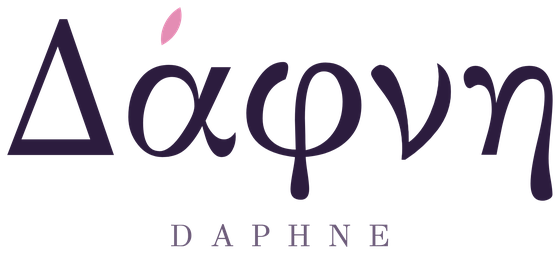
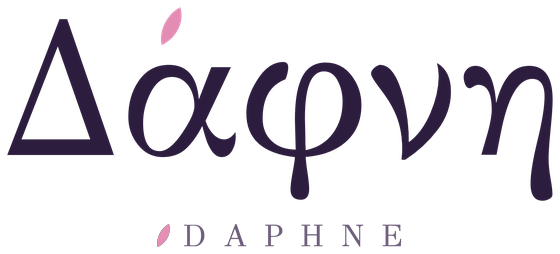
[DOC] README wordmark: the petal before DAPHNE, as in MIKU
Description:
The README's wordmark images had DAPHNE without the petal that MIKU shows
in front of it (settings title, about row, signal path card).

Solution:
- doc/assets/wordmark-dark.png, wordmark-light.png: the icon's petal
  (TONOS_D, #E58FB7) before DAPHNE, as specified for MIKU: as tall as the
  capitals (0.692 em = 23 px), 0.374 em wide, 0.43 em before DAPHNE.
  DAPHNE keeps the artwork's letters, moved 13 px right so petal + DAPHNE
  stay centred under Δάφνη.
- doc/字標與icon規格.md §5: the README images listed with the other places.

Note:
README.md itself is unchanged (same image paths).

Claude-Session: https://claude.ai/code/session_01RaSJHLGsG56MgkYENuf3Kn

Changed region(s): [[0.2732, 0.8819, 0.7286, 0.9921]]

diff --git a/doc/字標與icon規格.md b/doc/字標與icon規格.md
@@ -127,8 +127,10 @@ L351.9 -760.2Z
 | 訊號路徑卡片：DSP 標題後 | 14px | 4.48px | 5.2 × 9.7px | 卡片列文字色 85%（卡片顯示後讀取列文字的實際顏色） |
 | 濾波器設計彈窗：標題開頭 | 14px | 4.48px | 5.2 × 9.7px | 彈窗文字色 85% |
 | MIKU「播放方案」選單：按鈕與選項 | 14px | 4.48px | 5.2 × 9.7px | 按鈕 / 選項文字色 85% |
+| README 字標圖片（`doc/assets/wordmark-*.png`，Δάφνη 下方） | 33.24px（大寫高 23px） | 原圖的字距 | 12.4 × 23.0px，間距 14.3px | 原圖的 DAPHNE 顏色；花瓣 `#E58FB7` |
 
 - 設定頁標題的 DAPHNE 置中在 Δάφνη 正下方（原圖 x 247 = 56.2px），top 42px。
+- README 字標圖片：花瓣 + DAPHNE 整組置中在 Δάφνη 正下方（560px 寬的圖，中心 x 280），和 MIKU 一樣；DAPHNE 沿用原圖的字，整組往右移 13px 讓出花瓣的位置。
 - 訊號路徑「解碼」：「解碼」13px `#8A8FA8`，與字標間距 10px，垂直置中。
 - DSP 標題：DSP 後間距 10px（標題本身 8px + 2px）。
 - MIKU「播放方案」選單：以 MIKU 的 `coreLabel('daphne', mark)` 取代名稱「Daphne」，選單按鈕與展開的選項都顯示字標；原生選項仍是文字「Daphne」（輔助技術使用）。選單本身的綠點與箭頭不變。
